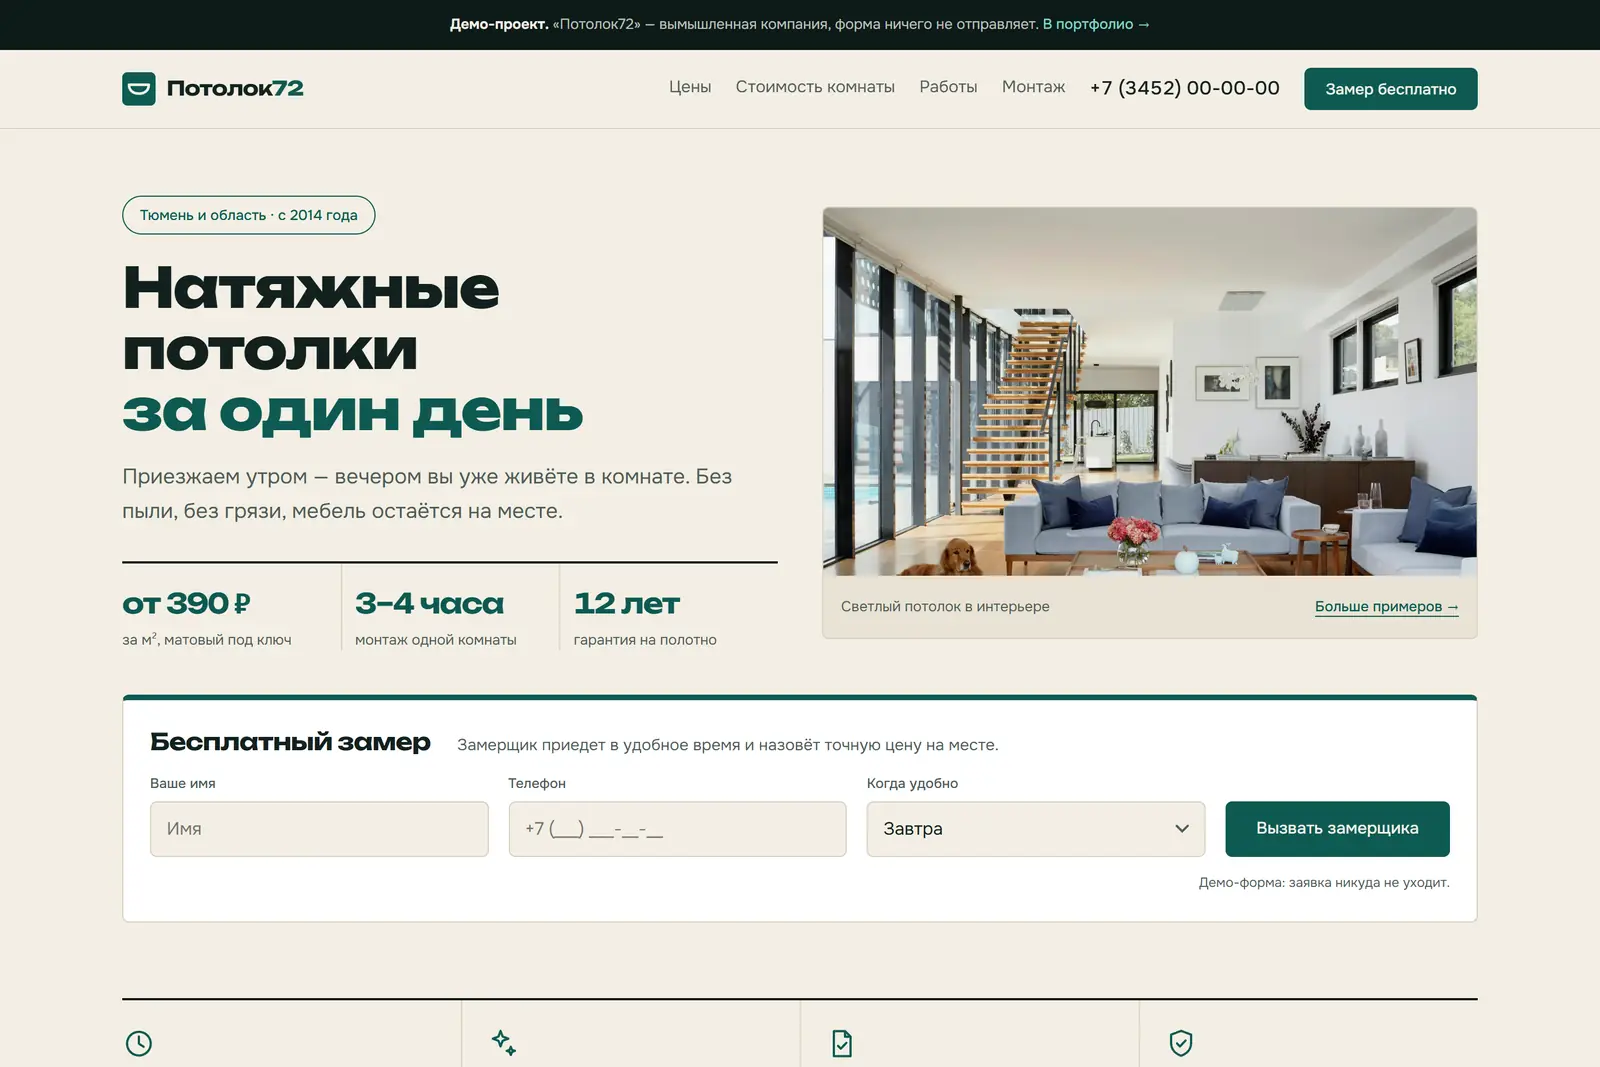
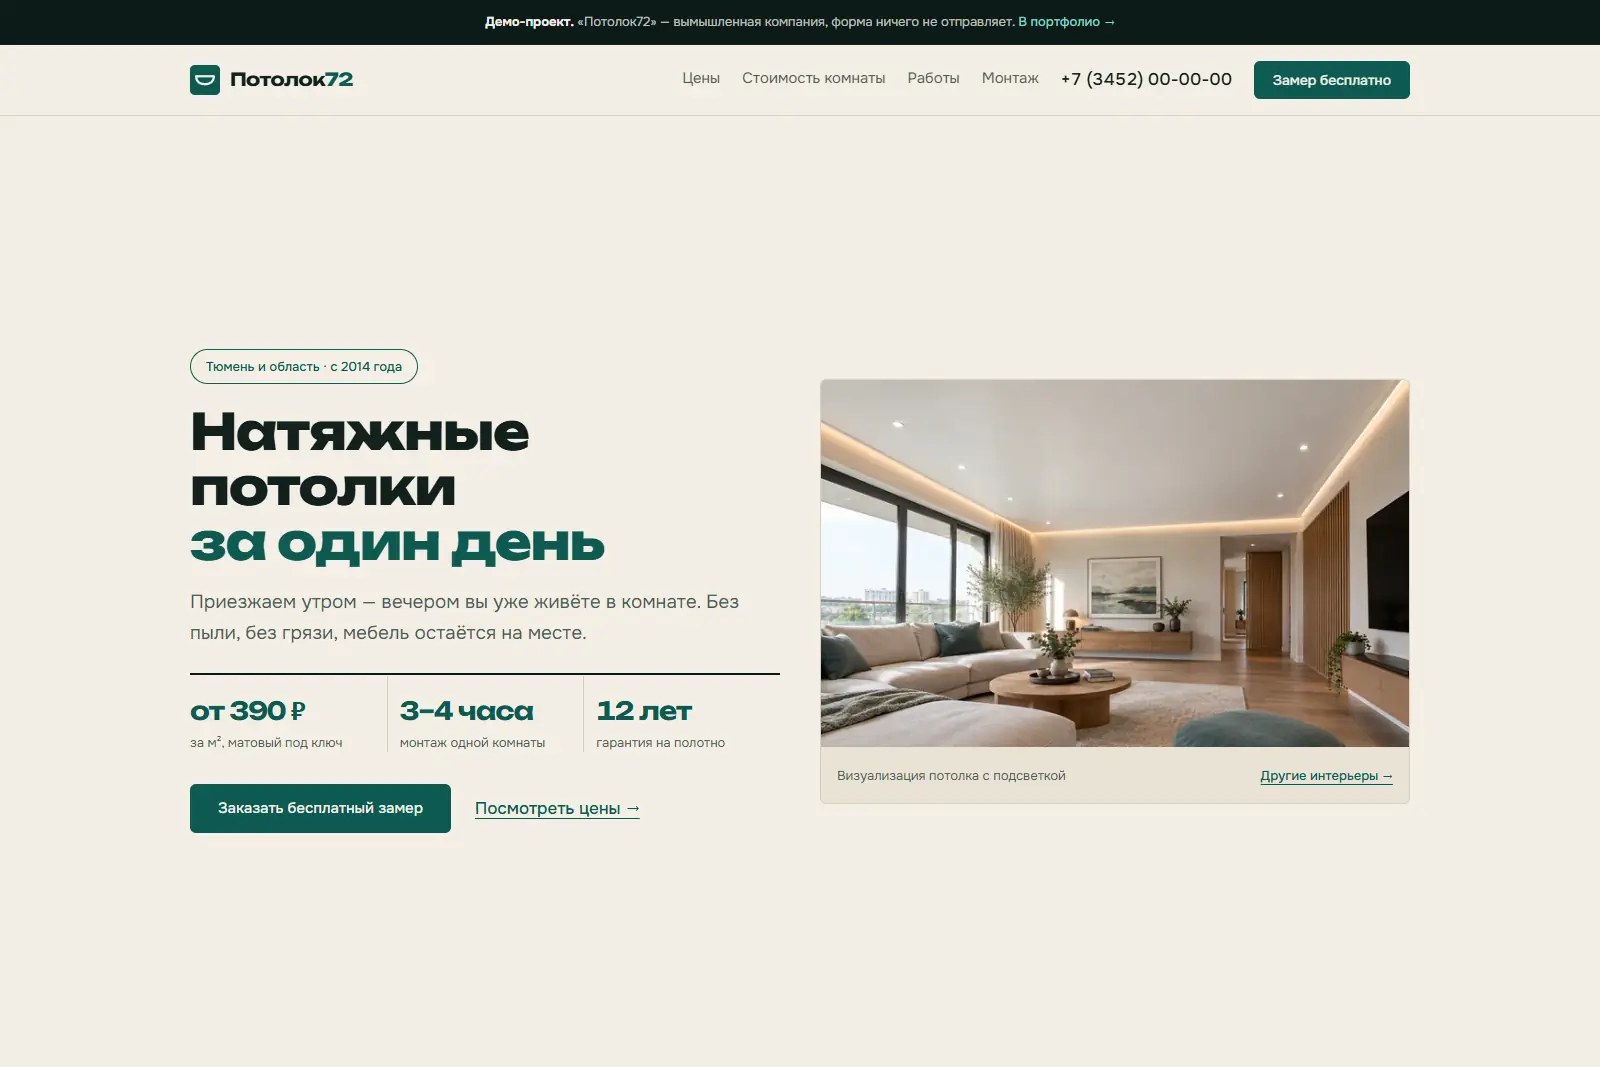
Rebuild Potolok72 hero around ceiling visual and single CTA

diff --git a/demo/potolki/index.html b/demo/potolki/index.html
@@ -14,7 +14,7 @@
 <link rel="preload" as="font" type="font/woff2" href="fonts/unbounded-800-cyrillic.woff2" crossorigin>
 <link rel="preload" as="font" type="font/woff2" href="fonts/unbounded-700-cyrillic.woff2" crossorigin>
 <link rel="preload" as="font" type="font/woff2" href="fonts/onest-400-cyrillic.woff2" crossorigin>
-<link rel="preload" as="image" href="img/hero-1400.webp" imagesrcset="img/hero-640.webp 640w, img/hero-820.webp 820w, img/hero-1000.webp 1000w, img/hero-1400.webp 1400w, img/hero-1900.webp 1900w, img/hero-2440.webp 2440w" imagesizes="(max-width:900px) calc(100vw - 40px), (max-width:1260px) calc((100vw - 80px) / 2), 590px" fetchpriority="high">
+<link rel="preload" as="image" href="img/hero-ceiling-1280.webp" imagesrcset="img/hero-ceiling-640.webp 640w, img/hero-ceiling-960.webp 960w, img/hero-ceiling-1280.webp 1280w, img/hero-ceiling-1586.webp 1586w" imagesizes="(max-width:900px) calc(100vw - 40px), (max-width:1260px) calc((100vw - 80px) / 2), 590px" fetchpriority="high">
 <script>
 /* Стартовые состояния анимаций ставим до первой отрисовки. Если скрипт сайта
    не доедет — через 1,2 с после загрузки показываем всё принудительно. */
@@ -25,7 +25,7 @@
    if(!h.dataset.rvReady)h.classList.remove('rv-on');},1200);});
 })(document);
 </script>
-<link rel="stylesheet" href="style.css">
+<link rel="stylesheet" href="style.css?v=2">
 </head>
 <body>
 
@@ -63,55 +63,22 @@
       <span class="pill">Тюмень и область · с 2014 года</span>
       <h1>Натяжные потолки <span class="blue">за один день</span></h1>
       <p class="subhead">Приезжаем утром — вечером вы уже живёте в комнате. Без пыли, без грязи, мебель остаётся на месте.</p>
+    </div>
+
+    <figure class="hero__img">
+      <img src="img/hero-ceiling-1280.webp" srcset="img/hero-ceiling-640.webp 640w, img/hero-ceiling-960.webp 960w, img/hero-ceiling-1280.webp 1280w, img/hero-ceiling-1586.webp 1586w" sizes="(max-width:900px) calc(100vw - 40px), (max-width:1260px) calc((100vw - 80px) / 2), 590px" alt="Визуализация гостиной с матовым белым потолком, встроенными светильниками и подсветкой по периметру" width="1280" height="801" fetchpriority="high">
+      <figcaption><span>Визуализация потолка с подсветкой</span><a href="#gallery">Другие интерьеры →</a></figcaption>
+    </figure>
+
+    <div class="hero__offer">
       <div class="hero__price">
         <div><b>от 390 ₽</b><span>за м², матовый под ключ</span></div>
         <div><b>3–4 часа</b><span>монтаж одной комнаты</span></div>
         <div><b>12 лет</b><span>гарантия на полотно</span></div>
       </div>
+      <div class="hero__actions"><a class="btn" href="#form">Заказать бесплатный замер</a><a class="hero__link" href="#price">Посмотреть цены →</a></div>
     </div>
 
-    <figure class="hero__img">
-      <img src="img/hero-1400.webp" srcset="img/hero-640.webp 640w, img/hero-820.webp 820w, img/hero-1000.webp 1000w, img/hero-1400.webp 1400w, img/hero-1900.webp 1900w, img/hero-2440.webp 2440w" sizes="(max-width:900px) calc(100vw - 40px), (max-width:1260px) calc((100vw - 80px) / 2), 590px" alt="Светлая гостиная с ровным белым потолком, панорамными окнами и деревянной лестницей" width="1400" height="788" fetchpriority="high">
-      <figcaption><span>Светлый потолок в интерьере</span><a href="#gallery">Больше примеров →</a></figcaption>
-    </figure>
-
-    <form class="qform qform--quick" id="quickForm" novalidate>
-      <div class="qform__head">
-        <h2 class="qform__t">Бесплатный замер</h2>
-        <p class="qform__s">Замерщик приедет в удобное время и назовёт точную цену на месте.</p>
-      </div>
-      <div class="qform__field">
-        <label class="fld">
-          <span>Ваше имя</span>
-          <input type="text" name="name" placeholder="Имя" autocomplete="name" required>
-        </label>
-        <span class="err" data-err="name"></span>
-      </div>
-      <div class="qform__field">
-        <label class="fld">
-          <span>Телефон</span>
-          <input type="tel" name="phone" inputmode="tel" placeholder="+7 (___) ___-__-__" autocomplete="tel" required>
-        </label>
-        <span class="err" data-err="phone"></span>
-      </div>
-      <label class="fld">
-        <span>Когда удобно</span>
-        <select name="when">
-          <option>Сегодня</option>
-          <option selected>Завтра</option>
-          <option>В выходные</option>
-          <option>Сначала обсудить по телефону</option>
-        </select>
-      </label>
-      <button class="btn btn--wide" type="submit">Вызвать замерщика</button>
-      <p class="qform__note">Демо-форма: заявка никуда не уходит.</p>
-      <div class="qform__ok" hidden role="status">
-        <span class="qform__mark">✓</span>
-        <b>Спасибо, заявка отправлена</b>
-        <p>Перезвоним на <i data-ok-phone></i> и согласуем время замера.</p>
-        <button class="btn btn--ghost btn--sm" type="button" data-again>Отправить ещё одну</button>
-      </div>
-    </form>
   </div>
 </section>
 

diff --git a/demo/potolki/style.css b/demo/potolki/style.css
@@ -95,8 +95,10 @@ h3{font-size:clamp(17px,1.4vw,20px);font-weight:700;letter-spacing:-.015em}
 .mnav a{padding:13px 0;text-decoration:none;border-bottom:1px solid var(--line);font-weight:500}
 
 /* --- hero --- */
-.hero{position:relative;padding:clamp(34px,4.4vw,60px) 0 0;background:var(--cream)}
-.hero__in{display:grid;grid-template-columns:repeat(2,minmax(0,1fr));gap:clamp(24px,3.2vw,40px);align-items:center}
+.hero{position:relative;min-height:calc(100svh - 116px);display:grid;align-items:center;padding:clamp(32px,5vh,64px) 0;background:var(--cream)}
+.hero__in{display:grid;grid-template-columns:repeat(2,minmax(0,1fr));grid-template-rows:auto auto;gap:24px clamp(24px,3.2vw,40px);align-items:center}
+.hero__text{grid-column:1;align-self:end}
+.hero__offer{grid-column:1;align-self:start}
 .hero h1{font-size:clamp(31px,4vw,50px)}
 .hero h1 .blue{display:block}
 .pill{
@@ -104,16 +106,18 @@ h3{font-size:clamp(17px,1.4vw,20px);font-weight:700;letter-spacing:-.015em}
   padding:6px 15px;font-size:13px;font-weight:500;margin-bottom:20px;
 }
 .subhead{margin-top:18px;font-size:clamp(16.5px,1.35vw,19px);color:var(--tx-mut);max-width:30em}
-.hero__price{display:grid;grid-template-columns:repeat(3,minmax(0,1fr));margin-top:30px;border-top:2px solid var(--ink)}
+.hero__price{display:grid;grid-template-columns:repeat(3,minmax(0,1fr));border-top:2px solid var(--ink)}
 .hero__price div{display:flex;flex-direction:column;gap:4px;padding:16px 12px 0 0}
 .hero__price div + div{border-left:1px solid var(--line);padding-left:12px}
 .hero__price b{font-family:var(--head);font-weight:700;font-size:clamp(18px,1.9vw,25px);letter-spacing:-.035em;color:var(--teal);font-variant-numeric:tabular-nums;white-space:nowrap}
 .hero__price span{font-size:13px;color:var(--tx-mut);line-height:1.3;max-width:15em}
-/* Фото сохраняет весь кадр; высота hero определяется содержимым. */
-.hero__img{margin:0;min-width:0;border:1px solid var(--line);border-radius:var(--r);overflow:hidden;background:var(--cream-2)}
+/* Фото сохраняет весь кадр и показывает именно потолок. */
+.hero__img{grid-column:2;grid-row:1/3;margin:0;min-width:0;border:1px solid var(--line);border-radius:var(--r);overflow:hidden;background:var(--cream-2)}
 .hero__img img{width:100%;height:auto}
 .hero__img figcaption{display:flex;align-items:center;justify-content:space-between;flex-wrap:wrap;gap:0 16px;padding:6px 16px;font-size:13px;color:var(--tx-mut)}
 .hero__img figcaption a{display:inline-flex;align-items:center;min-height:44px;color:var(--teal);font-weight:500;text-underline-offset:4px}
+.hero__actions{display:flex;align-items:center;flex-wrap:wrap;gap:12px 24px;margin-top:32px}
+.hero__link{color:var(--teal);font-weight:500;text-underline-offset:4px}
 
 /* --- форма-карточка --- */
 .qform{position:relative;background:var(--white);border:1px solid var(--line);border-top:5px solid var(--teal);border-radius:var(--r);padding:26px 24px 24px}
@@ -138,15 +142,6 @@ h3{font-size:clamp(17px,1.4vw,20px);font-weight:700;letter-spacing:-.015em}
 .qform__ok b{font-family:var(--head);font-weight:700;font-size:19px;letter-spacing:-.02em}
 .qform__ok p{color:var(--tx-mut);font-size:15px}
 .qform__ok i{font-style:normal;font-weight:600;color:var(--tx);white-space:nowrap}
-
-.qform--quick{grid-column:1/-1;display:grid;grid-template-columns:repeat(3,minmax(0,1fr)) auto;gap:14px 18px;align-items:start}
-.qform__head{grid-column:1/-1;display:flex;align-items:baseline;gap:24px}
-.qform__head .qform__t{flex:none;margin:0}
-.qform__head .qform__s{margin:0;max-width:38em}
-.qform--quick .fld{margin:0}
-.qform--quick .err{margin:6px 0 0}
-.qform--quick > .btn{margin-top:26px;min-height:50px}
-.qform--quick .qform__note{grid-column:1/-1;margin:0;text-align:right}
 
 /* --- плитки преимуществ --- */
 .tiles{padding:clamp(40px,5vw,68px) 0 0}
@@ -264,10 +259,10 @@ h3{font-size:clamp(17px,1.4vw,20px);font-weight:700;letter-spacing:-.015em}
 @media (max-width:900px){
   .nav,.hdr .tel,.hdr .btn{display:none}
   .burger{display:block}
+  .hero{min-height:0}
   .hero__in,.how,.two,.cta__in{grid-template-columns:1fr}
-  .qform--quick{grid-template-columns:repeat(2,minmax(0,1fr))}
-  .qform__head{display:block}
-  .qform__head .qform__t{margin-bottom:6px}
+  .hero__in{grid-template-rows:auto}
+  .hero__text,.hero__img,.hero__offer{grid-column:1;grid-row:auto}
   .gal{grid-template-columns:repeat(2,1fr)}
   .gal__i--big{grid-column:span 2;grid-row:auto}
   .gal__i--big img{aspect-ratio:2/1}
@@ -284,9 +279,6 @@ h3{font-size:clamp(17px,1.4vw,20px);font-weight:700;letter-spacing:-.015em}
   .hero__price{grid-template-columns:1fr 1fr}
   .hero__price div{padding-top:14px}
   .hero__price div:nth-child(3){grid-column:1/-1;border-left:0;border-top:1px solid var(--line);margin-top:14px;padding-left:0}
-  .qform--quick{grid-template-columns:1fr}
-  .qform--quick > .btn{margin-top:0}
-  .qform--quick .qform__note{text-align:center}
   .sticky-cta{display:block}
   .ftr{padding-bottom:86px}
   .qform{padding:20px 17px}

diff --git a/CREDITS.md b/CREDITS.md
@@ -7,6 +7,9 @@
 использование, атрибуция не требуется). Все изображения пережаты в WebP
 и уменьшены до реально нужных размеров.
 
+Визуализация первого экрана `demo/potolki/img/hero-ceiling-*.webp`
+создана с помощью OpenAI imagegen для этого демо-проекта.
+
 Портрет Максима Вагина в блоке «Обо мне» предоставлен им для портфолио
 (`assets/img/maxim-portrait-*.webp`).
 
